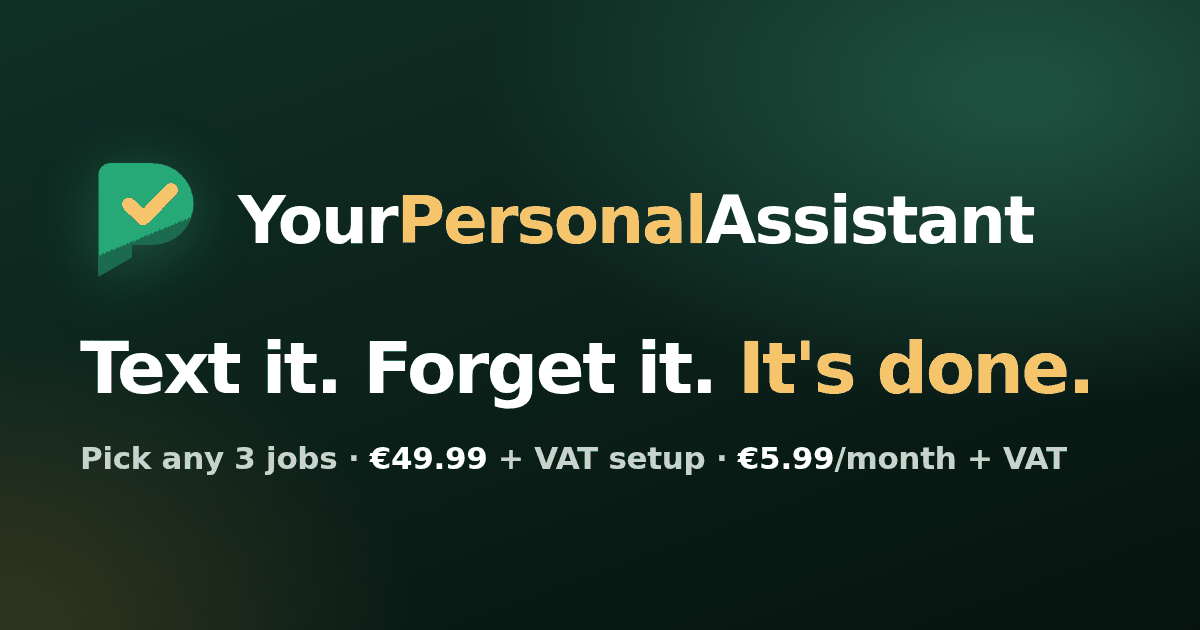
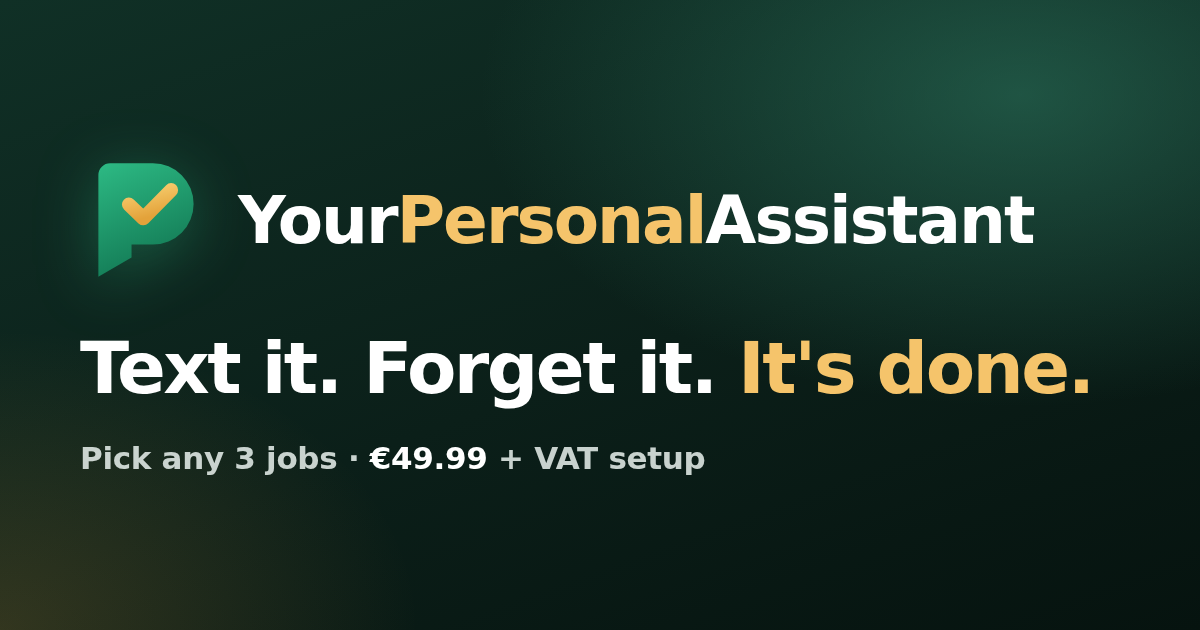
v9 pricing: drop the monthly fee; €49.99 + VAT one-time setup for any 3 jobs; 'Maintenance and changes are chargeable.'; new og.png

Changed region(s): [[0.6167, 0.6937, 0.8942, 0.754], [0.0617, 0.3016, 0.185, 0.4222]]

diff --git a/index.html b/index.html
@@ -3,20 +3,20 @@
 <head>
 <meta charset="utf-8">
 <meta name="viewport" content="width=device-width, initial-scale=1, viewport-fit=cover">
-<title>YourPersonalAssistant — Text it. Forget it. It's done. · €49.99 setup, €5.99/month</title>
-<meta name="description" content="Your Personal Assistant. Text it. Forget it. It's done. Tell it in WhatsApp and it does the whole job: kids' school mail and forms, shopping, reminders, your calendar, travel plans, ticket booking, doctor, dentist and garage appointments, bills and renewals, job hunting and more. Pick any 3 jobs. €49.99 + VAT setup, then €5.99/month for maintenance and marketing.">
+<title>YourPersonalAssistant — Text it. Forget it. It's done. · €49.99 setup</title>
+<meta name="description" content="Your Personal Assistant. Text it. Forget it. It's done. Tell it in WhatsApp and it does the whole job: kids' school mail and forms, shopping, reminders, your calendar, travel plans, ticket booking, doctor, dentist and garage appointments, bills and renewals, job hunting and more. Pick any 3 jobs. €49.99 + VAT one-time setup. Maintenance and changes are chargeable.">
 <meta name="theme-color" content="#0b1f19">
 <meta property="og:type" content="website">
 <meta property="og:url" content="https://myownagent.aiagentops.nl/">
 <meta property="og:title" content="YourPersonalAssistant — Text it. Forget it. It's done.">
-<meta property="og:description" content="Text it. Forget it. It's done. Tell it in WhatsApp. It does the whole job. Pick any 3 — €49.99 + VAT setup, then €5.99/month.">
+<meta property="og:description" content="Text it. Forget it. It's done. Tell it in WhatsApp. It does the whole job. Pick any 3 — €49.99 + VAT one-time setup.">
 <meta property="og:image" content="https://myownagent.aiagentops.nl/og.png">
 <meta property="og:image:width" content="1200">
 <meta property="og:image:height" content="630">
-<meta property="og:image:alt" content="YourPersonalAssistant — Text it. Forget it. It's done. Pick any 3 jobs. €49.99 + VAT setup, then €5.99/month + VAT.">
+<meta property="og:image:alt" content="YourPersonalAssistant — Text it. Forget it. It's done. Pick any 3 jobs. €49.99 + VAT one-time setup.">
 <meta name="twitter:card" content="summary_large_image">
 <meta name="twitter:title" content="YourPersonalAssistant — Text it. Forget it. It's done.">
-<meta name="twitter:description" content="Text it. Forget it. It's done. Tell it in WhatsApp. It does the whole job. Pick any 3 — €49.99 + VAT setup, then €5.99/month.">
+<meta name="twitter:description" content="Text it. Forget it. It's done. Tell it in WhatsApp. It does the whole job. Pick any 3 — €49.99 + VAT one-time setup.">
 <meta name="twitter:image" content="https://myownagent.aiagentops.nl/og.png">
 <link rel="icon" href="/favicon.svg" type="image/svg+xml">
 <link rel="icon" href="/favicon-32.png" type="image/png" sizes="32x32">
@@ -55,8 +55,8 @@
         <a class="btn btn-big" href="#join">Reserve for €49.99 + VAT</a>
         <a class="btn btn-ghost" href="#does">Pick your 3 jobs</a>
       </div>
-      <p class="hero-price reveal"><span class="nw"><b>€49.99</b> <span>+ VAT setup</span></span> <span class="nw"><i>then</i> <b>€5.99</b><span>/month</span></span></p>
-      <p class="fine reveal">Pick any 3 jobs. €5.99/month + VAT keeps them running and adds marketing help. Anything going to your customers waits for your OK.</p>
+      <p class="hero-price reveal"><span class="nw"><b>€49.99</b> <span>+ VAT one-time setup</span></span> <span class="nw"><i>·</i> <span>Pick any 3 jobs</span></span></p>
+      <p class="fine reveal">Maintenance and changes are chargeable. Anything going to your customers waits for your OK.</p>
     </div>
 
     <div class="hero-phone reveal">
@@ -314,7 +314,7 @@
     <h2 class="reveal">From reservation to a working assistant.</h2>
     <ol class="steps">
       <li class="reveal"><span class="sn">1</span><h3>Reserve</h3><p>Tell us which 3 jobs you want done first. It takes a minute.</p></li>
-      <li class="reveal"><span class="sn">2</span><h3>Pay €49.99 + VAT setup</h3><p>We get in touch to arrange payment. After that it's €5.99/month + VAT for maintenance and marketing.</p></li>
+      <li class="reveal"><span class="sn">2</span><h3>Pay €49.99 + VAT setup</h3><p>We get in touch to arrange payment. Maintenance and changes are chargeable.</p></li>
       <li class="reveal"><span class="sn">3</span><h3>Setup call</h3><p>Once paid, pick a 45-minute slot. You leave the call with your 3 jobs running from your WhatsApp.</p></li>
     </ol>
   </div>
@@ -325,21 +325,16 @@
   <div class="wrap">
     <div class="tier reveal">
       <p class="kicker">Pricing</p>
-      <h2>Your 3 jobs, done. For less than a coffee a week.</h2>
-      <div class="pp">
-        <div class="pp-box">
+      <h2>Your 3 jobs, done. One setup.</h2>
+      <div class="pp pp-one">
+        <div class="pp-box pp-hl">
           <p class="pp-l">One-time setup</p>
           <p class="pp-n">€49.99</p>
           <p class="pp-v">+ VAT · any 3 jobs</p>
         </div>
-        <div class="pp-then" aria-hidden="true">then</div>
-        <div class="pp-box pp-hl">
-          <p class="pp-l">Every month</p>
-          <p class="pp-n">€5.99<small>/month</small></p>
-          <p class="pp-v">+ VAT · maintenance + marketing</p>
-        </div>
       </div>
-      <p class="pp-sum">€49.99 setup · €5.99/month. That's the whole price.</p>
+      <p class="pp-sum">€49.99 + VAT one-time setup · Pick any 3 jobs</p>
+      <p class="fine pp-maint">Maintenance and changes are chargeable.</p>
       <p class="fine pp-refund">No refunds or returns once your first job has been delivered.</p>
       <div class="pp-cols">
         <div>
@@ -351,11 +346,10 @@
           </ul>
         </div>
         <div>
-          <h3>Your €5.99 every month</h3>
+          <h3>After setup</h3>
           <ul>
-            <li>Your 3 jobs kept running, every day</li>
-            <li>Fixed when a site, form or tool changes, so the job doesn't stop</li>
-            <li>Marketing help: posts, ads and short videos for your business</li>
+            <li>Your 3 jobs run from your WhatsApp</li>
+            <li>Want a job changed or maintained later? That's charged per task. Just ask.</li>
             <li>Anything going to your customers is drafted first and waits for your OK</li>
           </ul>
         </div>
@@ -377,9 +371,9 @@
     <details class="reveal"><summary>Is my data private?</summary><p>Your Personal Assistant only connects to the accounts you choose, and watchers are read-only unless you ask for more. Your information is used to do your work and nothing else. Disconnect any account at any time and we stop.</p></details>
     <details class="reveal"><summary>What can't it do?</summary><p>It won't lie for you — forms get truthful answers, and when there is no truthful option it stops and asks. It can't pass a CAPTCHA, sit your interview or sign contracts. Some sites block automated access; those steps come to you as a one-tap list. It never moves money without your explicit approval.</p></details>
     <details class="reveal"><summary>What do I need to give you?</summary><p>A setup call, the 3 jobs you want done, your rules, your CV or brand basics, and access to the accounts it should work in. You stay the owner of every account.</p></details>
-    <details class="reveal"><summary>What does it cost?</summary><p>€49.99 + VAT one-time setup for any 3 jobs, then €5.99/month + VAT. The monthly fee keeps your jobs running, fixes them when a site or form changes, and covers marketing help: posts, ads and short videos, drafted for your OK. Need more than 3 jobs? Ask us when you reserve.</p></details>
+    <details class="reveal"><summary>What does it cost?</summary><p>€49.99 + VAT one-time setup for any 3 jobs. Maintenance and changes are chargeable. Need more than 3 jobs? Ask us when you reserve.</p></details>
     <details class="reveal"><summary>Can I get a refund?</summary><p>No refunds or returns once your first job has been delivered. Questions about a payment? <a href="/contact">Contact us</a> and we reply by email.</p></details>
-    <details class="reveal"><summary>What do I get for €5.99 a month?</summary><p>Maintenance and marketing. Your 3 jobs keep running every day, and when a website, form or tool changes we fix the job so it doesn't stop. On top of that you get marketing help each month: posts, ads or short videos, drafted for your OK before anything goes out.</p></details>
+    <details class="reveal"><summary>What does it cost after setup?</summary><p>There's no monthly fee. If you want a job changed or maintained later, that's charged per task. Just ask.</p></details>
     <details class="reveal"><summary>How fast is it live?</summary><p>You leave the setup call with your 3 jobs running. Each one is checked with you step by step.</p></details>
   </div>
 </section>
@@ -391,7 +385,7 @@
     <h2 class="reveal">Hand over 3 jobs.<br><span>Get them done.</span></h2>
     <ol class="steps-pay reveal">
       <li><strong>Reserve.</strong> Tell us which jobs you want done first.</li>
-      <li><strong>Pay €49.99 + VAT setup.</strong> We get in touch to arrange payment. Then €5.99/month + VAT for maintenance and marketing. No refunds or returns once your first job has been delivered.</li>
+      <li><strong>Pay €49.99 + VAT setup.</strong> We get in touch to arrange payment. Maintenance and changes are chargeable. No refunds or returns once your first job has been delivered.</li>
       <li><strong>Book your setup call.</strong> Once paid, pick a 45-minute slot. You leave the call with your jobs running.</li>
     </ol>
     <p class="small reveal">We only ask for your phone number after payment, during setup.</p>

diff --git a/script.js b/script.js
@@ -46,7 +46,7 @@ f.addEventListener('submit',function(e){
   var n=f.elements.name.value.trim(), m=f.elements.email.value.trim(), u=f.elements.first.value;
   var pk=(window.YPA_PICKS&&window.YPA_PICKS())||[];
   var body='Name: '+n+'\nEmail: '+m+'\nFirst job: '+u+'\n'+(pk.length?'My 3 jobs: '+pk.join(', ')+'\n':'');
-  window.location.href='mailto:hello@aiagentops.nl?subject='+encodeURIComponent('Your Personal Assistant setup reservation (€49.99 + VAT setup, €5.99/month): '+n)+'&body='+encodeURIComponent('I would like to reserve Your Personal Assistant.\n\n'+body);
+  window.location.href='mailto:hello@aiagentops.nl?subject='+encodeURIComponent('Your Personal Assistant setup reservation (€49.99 + VAT setup): '+n)+'&body='+encodeURIComponent('I would like to reserve Your Personal Assistant.\n\n'+body);
 });
 })();
 

diff --git a/styles.css b/styles.css
@@ -421,3 +421,6 @@ body.chat-open{overflow:hidden}
 .chat-snd{all:unset;cursor:pointer;display:grid;place-items:center;width:38px;height:38px;border-radius:50%;flex:none;font-size:1.15rem;line-height:1}
 .chat-snd:hover,.chat-snd:focus-visible{background:rgba(255,255,255,.15)}
 .chat-snd:focus-visible{outline:2px solid #fff}
+
+.pp.pp-one{grid-template-columns:1fr;max-width:380px;margin-left:auto;margin-right:auto}
+.pp-sum + .pp-maint{margin:-16px 0 8px}

diff --git a/README.md b/README.md
@@ -1,5 +1,5 @@
 # YourPersonalAssistant
 
-Static site for https://myownagent.aiagentops.nl — Your Personal Assistant. Text it. Forget it. It's done. €49.99 + VAT setup, then €5.99/month.
+Static site for https://myownagent.aiagentops.nl — Your Personal Assistant. Text it. Forget it. It's done. €49.99 + VAT one-time setup. Maintenance and changes are chargeable.
 
 Plain HTML/CSS/JS, no build step. Reservations open an email to hello@aiagentops.nl.
